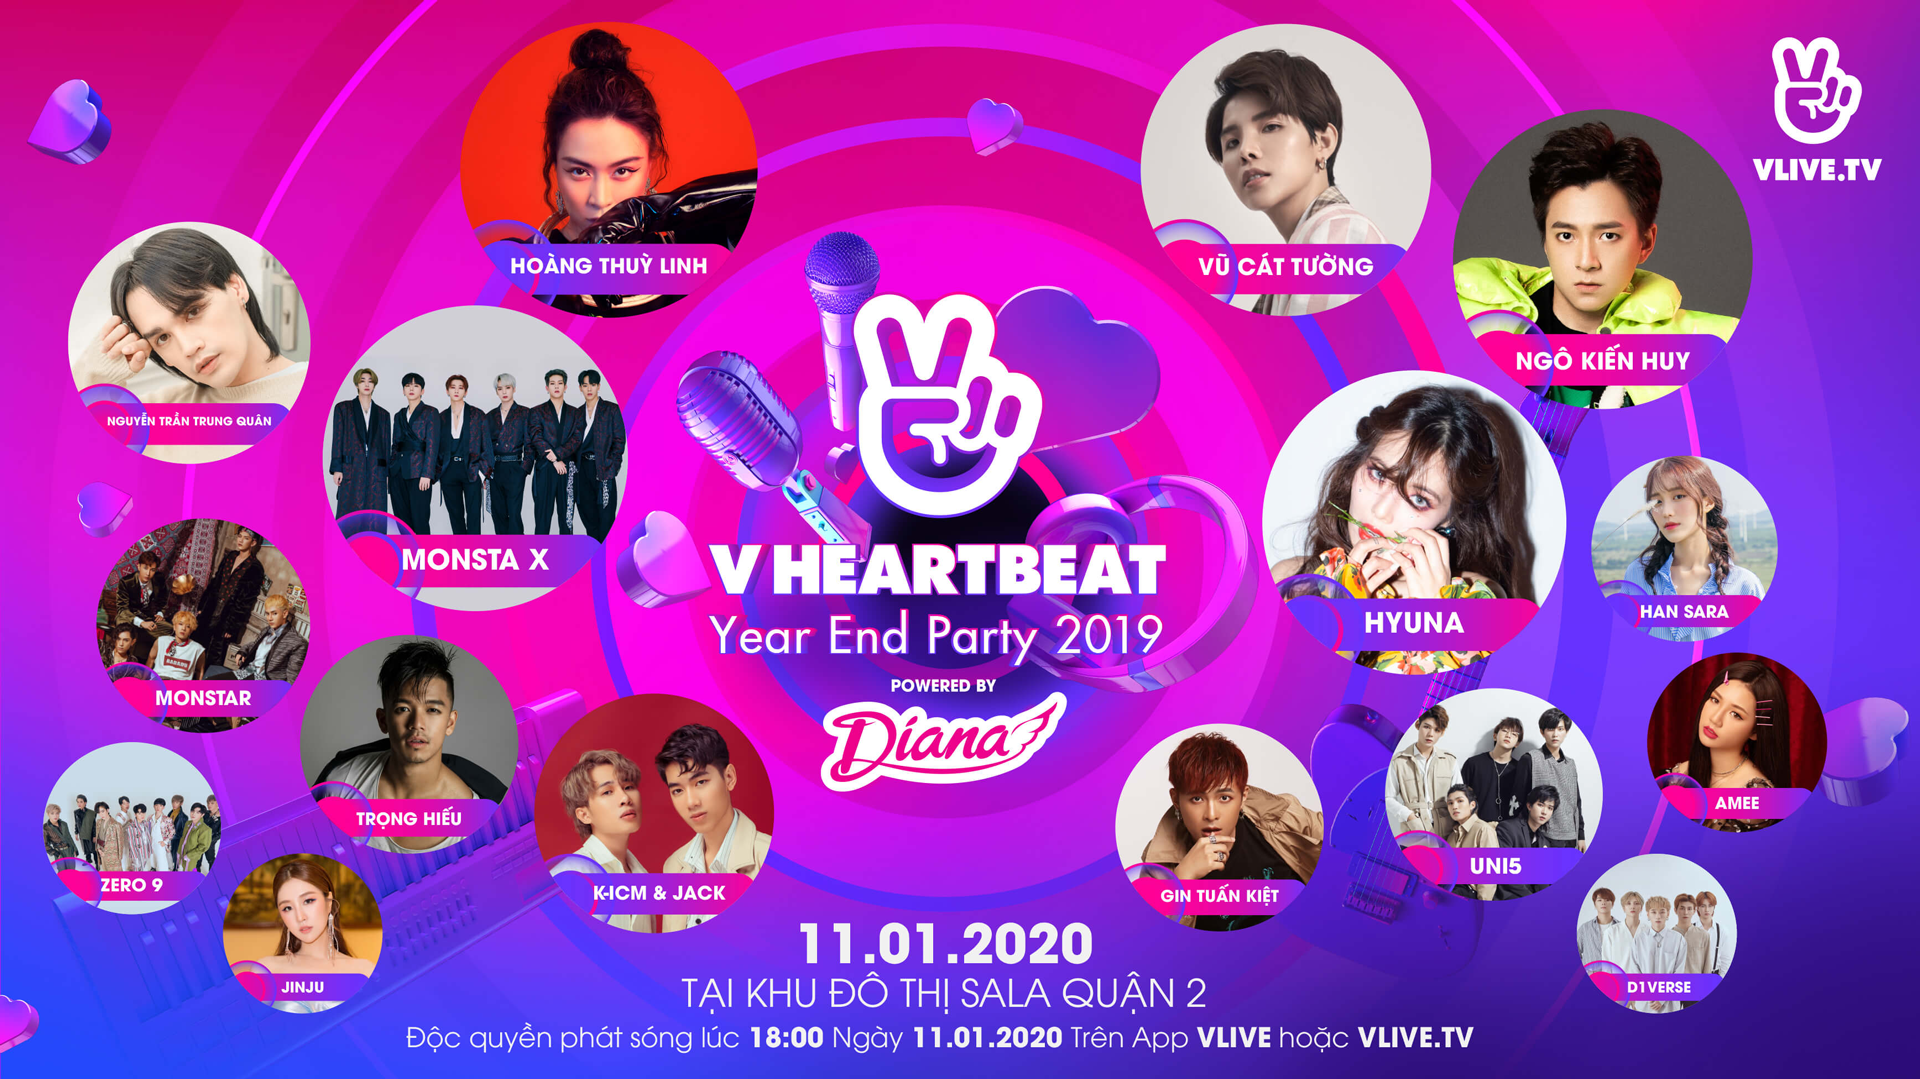
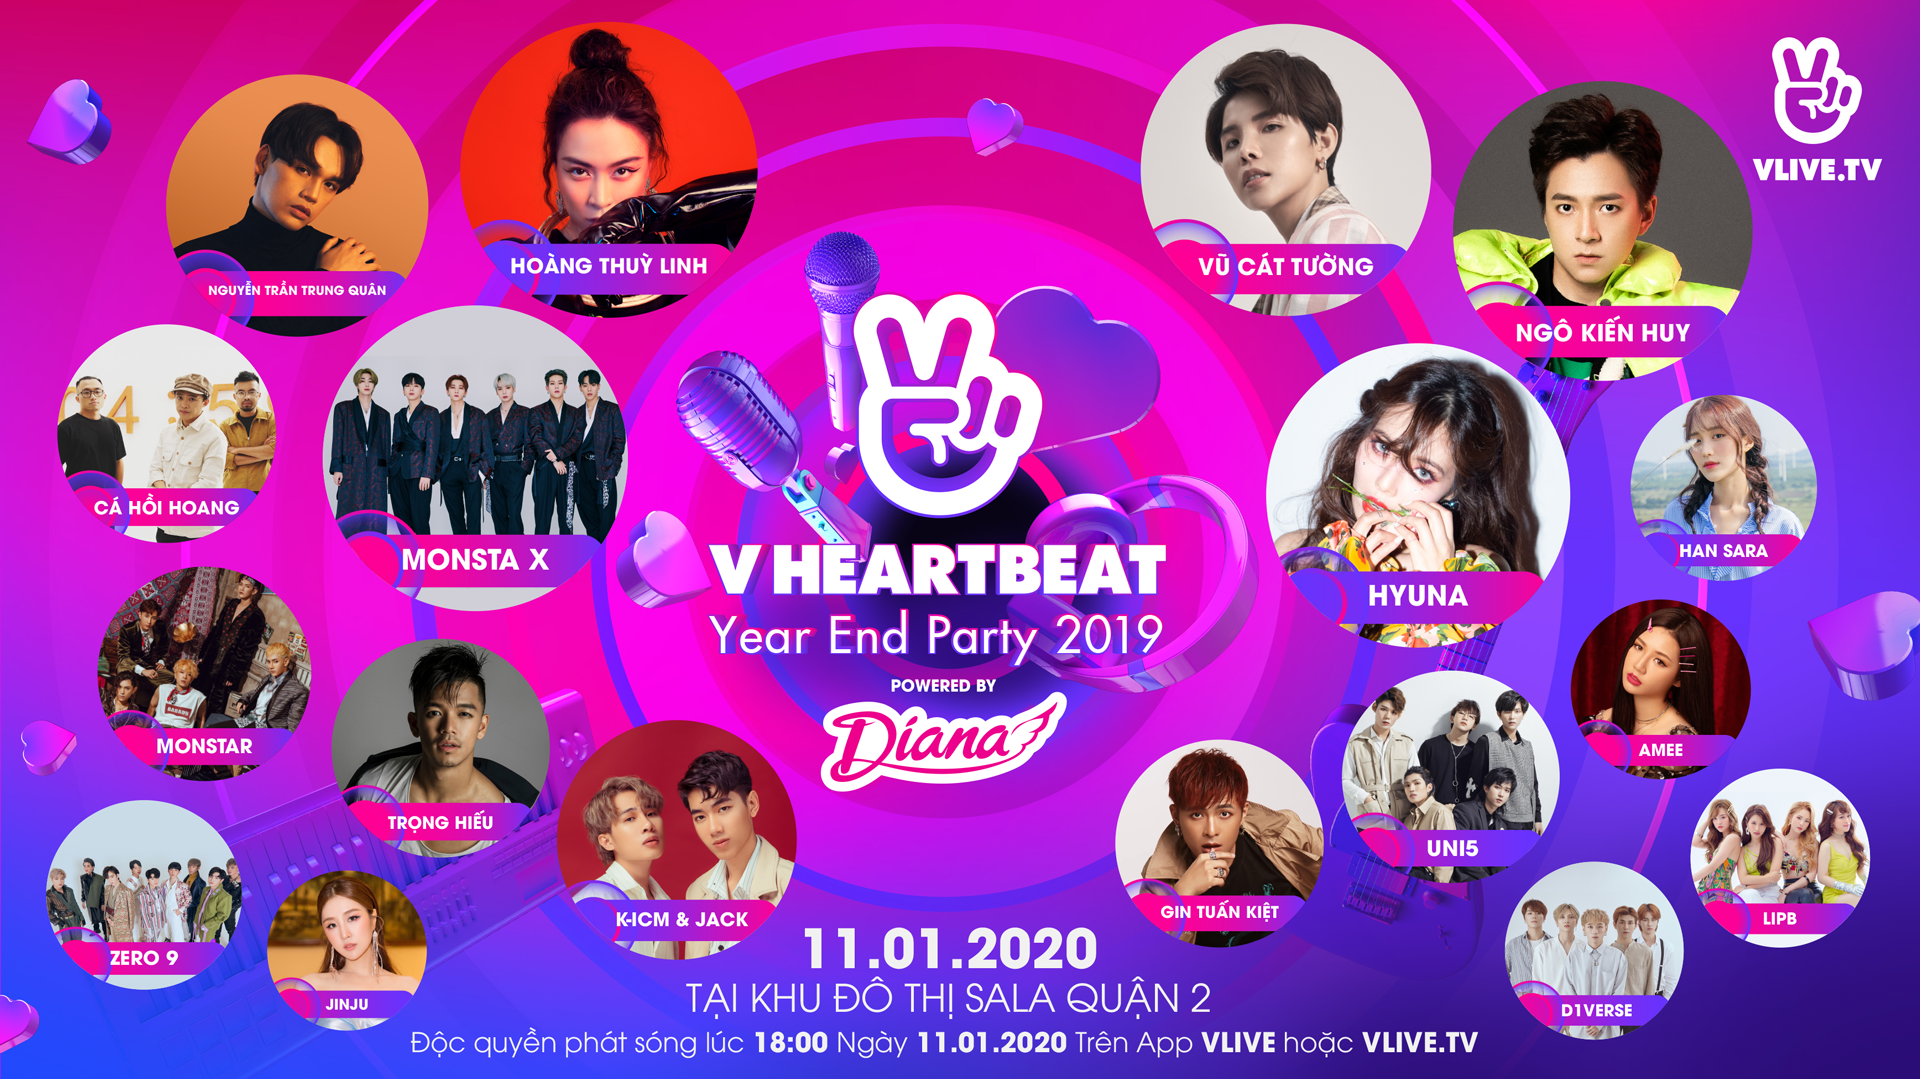
upload

diff --git a/dist/index.html b/dist/index.html
@@ -767,22 +767,24 @@
 			</div>
 			<div class="index-5">
 				<div class="iamgeMapCanvas">
-					<div class="image-canvas"><map name="imagemap"><area shape="circle" coords="1642, 926, 80" href="https://channels.vlive.tv/B0C9CD/home" target="_blank" alt="D1Verse" title="D1Verse" />
-<area shape="circle" coords="1480, 788, 107" href="https://channels.vlive.tv/DF1403/home" target="_blank" alt="Uni5" title="Uni5" />
-<area shape="circle" coords="1721, 738, 87" href="https://channels.vlive.tv/B51943" target="_blank" alt="Amee" title="Amee" />
-<area shape="circle" coords="1671, 543, 92" href="https://channels.vlive.tv/D6D50B" target="_blank" alt="Han Sara" title="Han Sara" />
-<area shape="circle" coords="1403, 518, 150" href="https://channels.vlive.tv/F071D7" target="_blank" alt="Huyna" title="Huyna" />
-<area shape="circle" coords="1587, 258, 148" href="https://channels.vlive.tv/F81E3/home" target="_blank" alt="Ngô Kiến Huy" title="Ngô Kiến Huy" />
-<area shape="circle" coords="1276, 168, 143" href="https://channels.vlive.tv/DB2481" target="_blank" alt="Vũ Cát Tường" title="Vũ Cát Tường" />
-<area shape="circle" coords="1211, 822, 104" href="https://channels.vlive.tv/D3C56D" target="_blank" alt="Gin Tuấn Kiệt" title="Gin Tuấn Kiệt" />
-<area shape="circle" coords="130, 822, 87" href="https://channels.vlive.tv/CCC64D" target="_blank" alt="Zero9" title="Zero9" />
-<area shape="circle" coords="300, 925, 81" href="https://channels.vlive.tv/CA369F/home" target="_blank" alt="Jin Ju" title="Jin Ju" />
-<area shape="circle" coords="649, 807, 118" href="https://channels.vlive.tv/A94ABD" target="_blank" alt="Jack KICM" title="Jack KICM" />
-<area shape="circle" coords="405, 738, 109" target="_blank" alt="Trọng Hiếu" title="Trọng Hiếu" />
-<area shape="circle" coords="202, 622, 108" href="https://channels.vlive.tv/F0A1D1/home" target="_blank" alt="Monstar" title="Monstar" />
-<area shape="circle" coords="186, 340, 121" href="https://channels.vlive.tv/AA1AA3" target="_blank" alt="Nguyễn Trần Trung Quân" title="Nguyễn Trần Trung Quân" />
-<area shape="circle" coords="472, 456, 150" href="https://channels.vlive.tv/FE123" target="_blank" alt="Monsta X" title="Monsta X" />
-<area shape="circle" coords="603, 167, 146" target="_blank" alt="Hoàng Thuỳ Linh" title="Hoàng Thuỳ Linh" /></map></div>
+					<div class="image-canvas"><map name="imagemap"><area shape="circle" coords="1765, 851, 89" target="_blank" alt="LIPB" title="LIPB" />
+<area shape="circle" coords="1580, 943, 89" href="https://channels.vlive.tv/B0C9CD/home" target="_blank" alt="D1Verse" title="D1Verse" />
+<area shape="circle" coords="1211, 837, 103" href="https://channels.vlive.tv/D3C56D" target="_blank" alt="Gin Tuấn Kiệt" title="Gin Tuấn Kiệt" />
+<area shape="circle" coords="1646, 685, 90" href="https://channels.vlive.tv/B51943" target="_blank" alt="Amee" title="Amee" />
+<area shape="circle" coords="1438, 772, 108" href="https://channels.vlive.tv/DF1403/home" target="_blank" alt="Uni5" title="Uni5" />
+<area shape="circle" coords="1710, 483, 92" href="https://channels.vlive.tv/D6D50B" target="_blank" alt="Han Sara" title="Han Sara" />
+<area shape="circle" coords="1404, 491, 151" href="https://channels.vlive.tv/F071D7" target="_blank" alt="Huyna" title="Huyna" />
+<area shape="circle" coords="1590, 227, 149" href="https://channels.vlive.tv/F81E3/home" target="_blank" alt="Ngô Kiến Huy" title="Ngô Kiến Huy" />
+<area shape="circle" coords="1274, 169, 144" href="https://channels.vlive.tv/DB2481" target="_blank" alt="Vũ Cát Tường" title="Vũ Cát Tường" />
+<area shape="circle" coords="143, 886, 95" href="https://channels.vlive.tv/CCC64D" target="_blank" alt="Zero9" title="Zero9" />
+<area shape="circle" coords="343, 943, 79" href="https://channels.vlive.tv/CA369F/home" target="_blank" alt="Jin Ju" title="Jin Ju" />
+<area shape="circle" coords="670, 832, 121" href="https://channels.vlive.tv/A94ABD" target="_blank" alt="Jack KICM" title="Jack KICM" />
+<area shape="circle" coords="436, 744, 107" target="_blank" alt="Trọng Hiếu" title="Trọng Hiếu" />
+<area shape="circle" coords="202, 668, 106" href="https://channels.vlive.tv/F0A1D1/home" target="_blank" alt="Monstar" title="Monstar" />
+<area shape="circle" coords="471, 453, 150" href="https://channels.vlive.tv/FE123" target="_blank" alt="Monsta X" title="Monsta X" />
+<area shape="circle" coords="165, 431, 107" target="_blank" alt="Cá Hồi Hoang" title="Cá Hồi Hoang" />
+<area shape="circle" coords="294, 206, 128" href="https://channels.vlive.tv/AA1AA3" target="_blank" alt="Nguyễn Trần Trung Quân" title="Nguyễn Trần Trung Quân" />
+<area shape="circle" coords="603, 168, 148" target="_blank" alt="Hoàng Thuỳ Linh" title="Hoàng Thuỳ Linh" /></map></div>
 					<div class="image-map"><img src="./assets/images/index/banner-5.jpg" alt="" usemap="#imagemap"></div>
 				</div>
 			</div>
